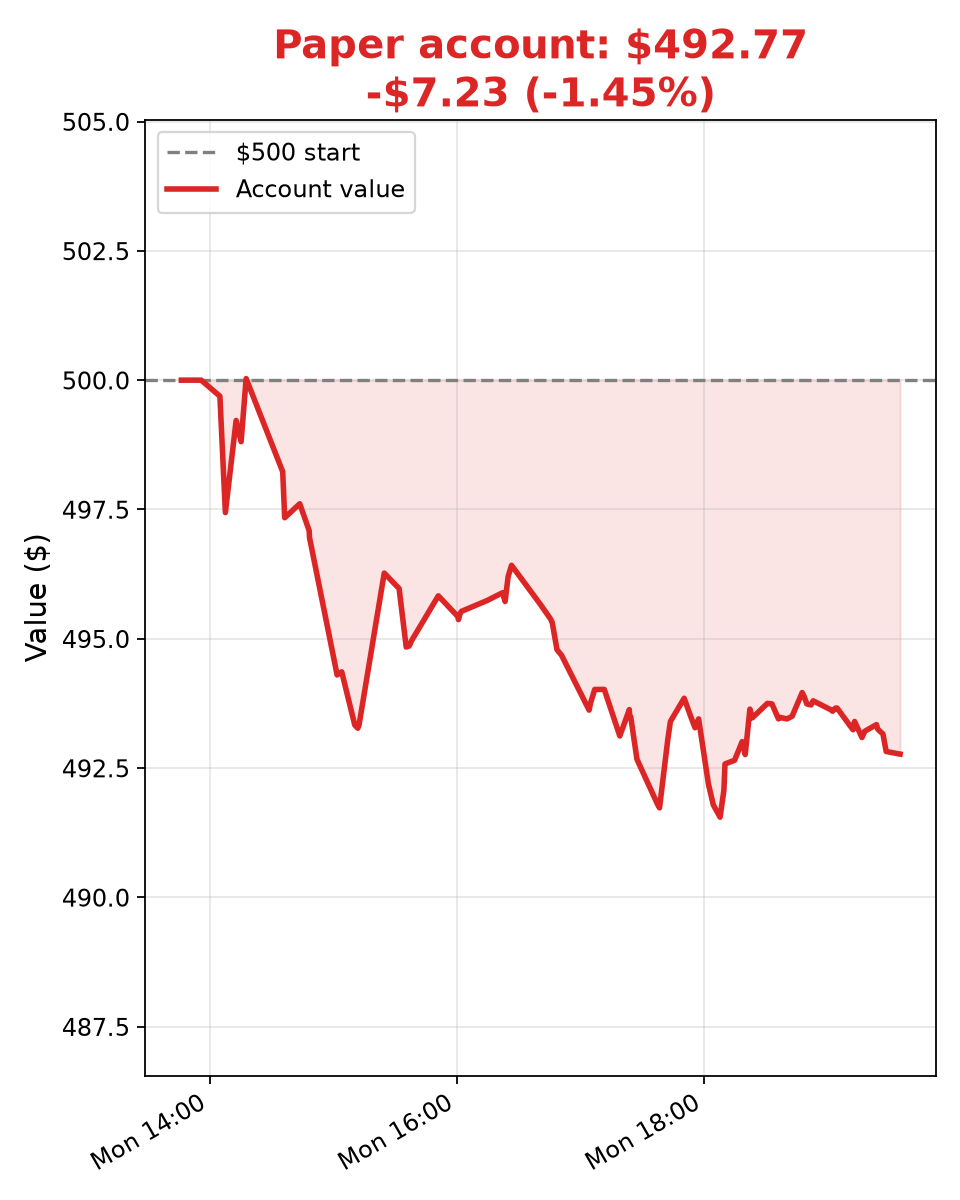
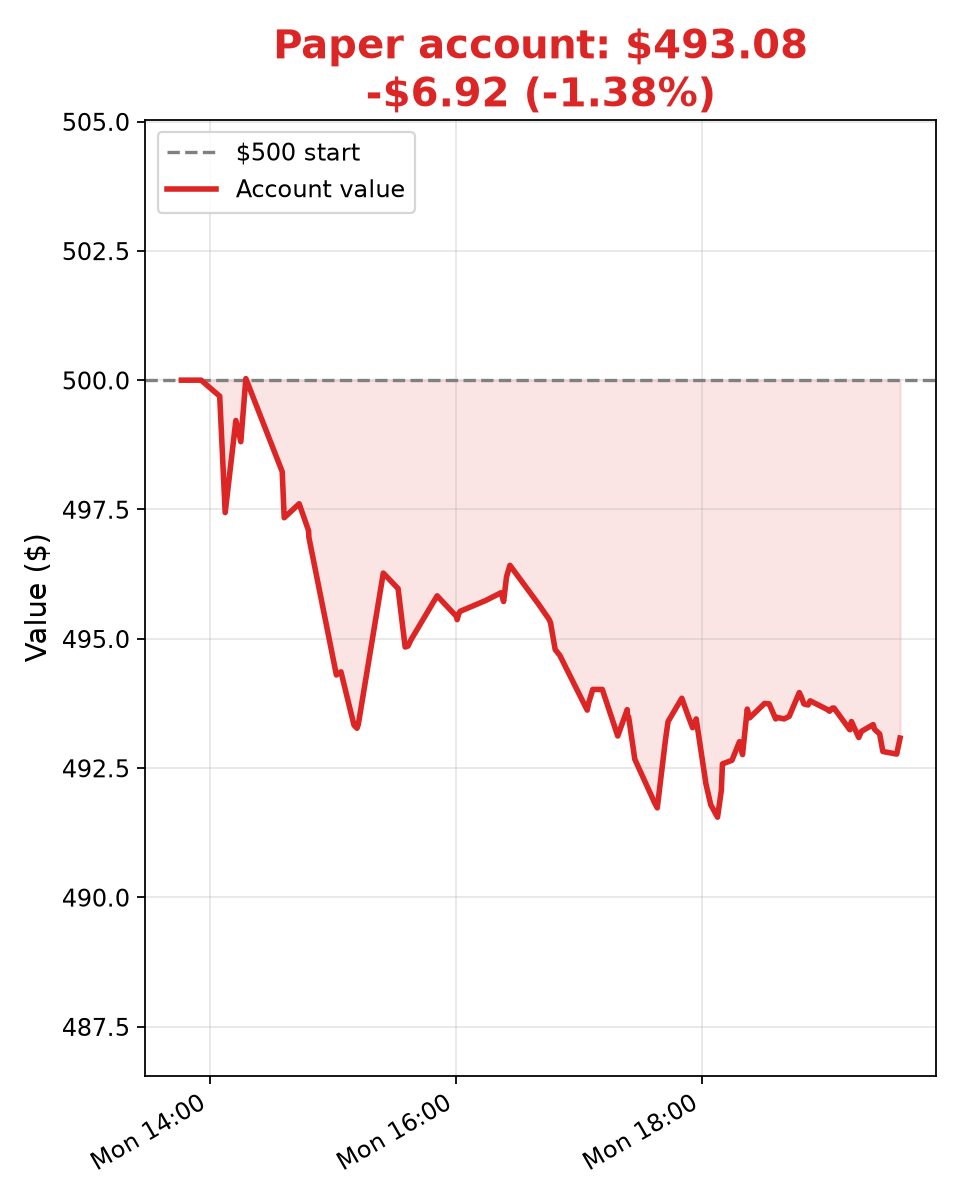
Update 2026-10-12T19:36:40Z

diff --git a/ledger.md b/ledger.md
@@ -129,3 +129,4 @@
 - 2026-10-12T19:26:41Z — total $493.16, cash $196.95 (Jr mark, 2:26 PM CT, no trade; FRO 58.77, DHT 25.97 marked; no stops/targets hit — FRO drifting 58.72–58.82 under ~58.9 after the 19:10 rejection, DHT faded the 19:21 poke to 26.10 back under the ~26.0 shelf; Jr add condition unmet)
 - 2026-10-12T19:28:16Z — total $492.82, cash $196.95 (Bot4 mark, 2:28 PM CT, no trade; FRO 58.715, DHT 25.935 marked; no stops/targets hit — both drifting to fresh afternoon lows on light volume (FRO 58.72, DHT 25.935, under the ~26.0 shelf), still well above stops 57.90 / 25.40 and under entry; SPY 777.30 near LOD 777.05; cash idle, no fresh catalyst)
 - 2026-10-12T19:35:00Z — total $492.77, cash $196.95 (Stock Bot mark, 2:35 PM CT, no trade; FRO 58.685, DHT 25.94 marked; no stops/targets hit — both grinding lower on light volume (FRO 19:31 low 58.61, DHT 19:32 low 25.89) while SPY lifts off LOD to 777.56; stops 57.90 / 25.40 intact)
+- 2026-10-12T19:36:39Z — total $493.08, cash $196.95 (Bot2 mark, 2:36 PM CT, no trade; FRO 58.75, DHT 25.965 marked; no stops/targets hit — both bouncing modestly off 19:31–19:32 afternoon lows (FRO 58.61, DHT 25.89) as SPY lifts off LOD to 777.85; still under entry, well above stops 57.90 / 25.40; cash idle, no fresh catalyst)
